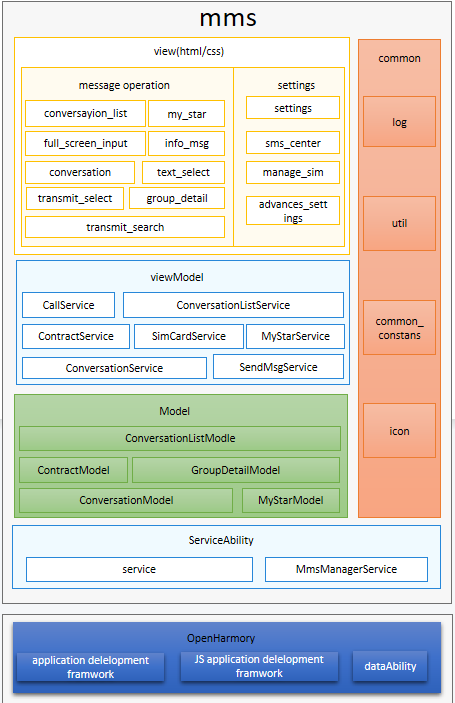
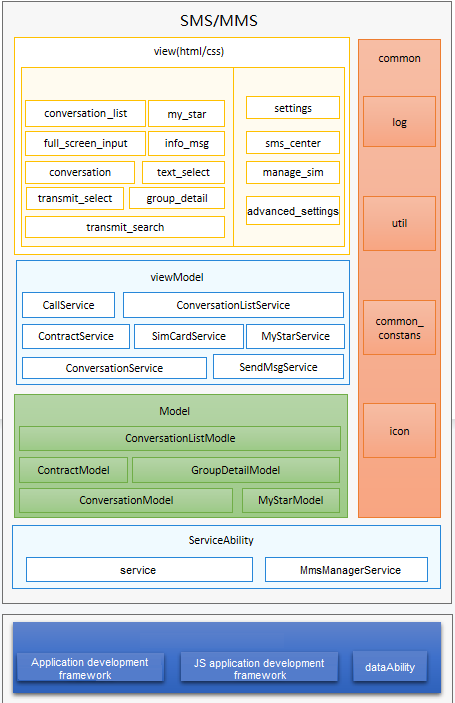
update docs

diff --git a/README.md b/README.md
@@ -1,39 +1,67 @@
-# applications_mms
+# MMS<a name="EN-US_TOPIC_0000001103421572"></a>
 
-#### 介绍
-{**以下是 Gitee 平台说明，您可以替换此简介**
-Gitee 是 OSCHINA 推出的基于 Git 的代码托管平台（同时支持 SVN）。专为开发者提供稳定、高效、安全的云端软件开发协作平台
-无论是个人、团队、或是企业，都能够用 Gitee 实现代码托管、项目管理、协作开发。企业项目请看 [https://gitee.com/enterprises](https://gitee.com/enterprises)}
+-   [Introduction](#section11660541593)
+    -   [Architecture](#section48896451454)
 
-#### 软件架构
-软件架构说明
+-   [Directory Structure](#section161941989596)
+-   [Usage](#section123459000)
+-   [Repositories Involved](#section1371113476307)
 
+## Introduction<a name="section11660541593"></a>
 
-#### 安装教程
-
-1.  xxxx
-2.  xxxx
-3.  xxxx
-
-#### 使用说明
-
-1.  xxxx
-2.  xxxx
-3.  xxxx
-
-#### 参与贡献
-
-1.  Fork 本仓库
-2.  新建 Feat_xxx 分支
-3.  提交代码
-4.  新建 Pull Request
+The MMS application is pre-installed in OpenHarmony and provides functions such as sending, receiving, forwarding, favoriting, locking, and resending of SMS and MMS messages.
 
 
-#### 特技
+### Architecture<a name="section48896451454"></a>
 
-1.  使用 Readme\_XXX.md 来支持不同的语言，例如 Readme\_en.md, Readme\_zh.md
-2.  Gitee 官方博客 [blog.gitee.com](https://blog.gitee.com)
-3.  你可以 [https://gitee.com/explore](https://gitee.com/explore) 这个地址来了解 Gitee 上的优秀开源项目
-4.  [GVP](https://gitee.com/gvp) 全称是 Gitee 最有价值开源项目，是综合评定出的优秀开源项目
-5.  Gitee 官方提供的使用手册 [https://gitee.com/help](https://gitee.com/help)
-6.  Gitee 封面人物是一档用来展示 Gitee 会员风采的栏目 [https://gitee.com/gitee-stars/](https://gitee.com/gitee-stars/)
+![](./doc/image/mms-architecture.png)
+
+## Directory Structure<a name="section161941989596"></a>
+
+```
+/applications/standard/mms
+├── figures                             		# Architecture diagram
+├── entry                               		# Main entry module
+│    ├── src		
+│      ├── main		
+│        └── js                         		# JS code
+│          └── default		
+│            └── common.icon            		# Icon
+│              └── i18n                 		# Internationalization
+│			   └── model                		# Data management layer
+│			   └── pages                		# Pages
+│                └── advanced_settings  		# Advanced settings page
+│                └── component          		# Components
+│				 └── conversation       		# Conversation page
+│				 └── conversation_list  		# Conversation list page
+│				 └── full_screen_input  		# Full-screen input page
+│				 └── full_srceen_show_picture  	# Full-screen image display page
+│				 └── group_detail              	# Group details page
+│				 └── info_msg                  	# Notification message list page
+│				 └── index                     	# Homepage
+│				 └── manage_sim                	# SIM card management page
+│				 └── my_star                   	# Favorites page
+│				 └── query_report               # Query report page
+│				 └── settings                  	# Settings page
+│                └── sms_center 	           	# SMSC page
+│				 └── text_select               	# Text selection page
+│				 └── transmit_select           	# Message forwarding page
+│				 └── transmit_search           	# Forwarded message search page
+│			   └── service             			# Service logic
+│			   └── utils               			# Utilities
+│        └── resources                 			# Resources
+│        └── config.json               			# Global configuration file
+├── gradle                             			# gradle
+│    ├──wrapper            			
+├── KeyStore                           			# License file
+```
+
+## Usage<a name="section123459000"></a>
+
+   For details, see [SMS/MMS Usage Instructions](./doc/Instructions.md).
+
+## Repositories Involved<a name="section1371113476307"></a>
+
+System applications
+
+**applications\_standard_mms**
